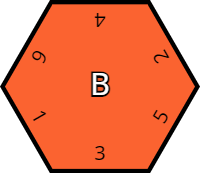
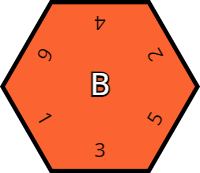
:bug: Fixed numbers alignment

diff --git a/assets/tables/hexagon-puzzle/index.html b/assets/tables/hexagon-puzzle/index.html
@@ -38,7 +38,7 @@ function process() {
         BORDER_COLOR = "#000",
         HEXAGON_ANGLE = Math.PI * 2 / 6,
         HEXAGON_SIZE = 100,
-        HEXAGON_BORDER = 9,
+        HEXAGON_RADIUS = 75,
         HEXRATIO_DIAGONAL_WIDTH = Math.cos(HEXAGON_ANGLE),
         HEXRATIO_DIAGONAL_HEIGHT = Math.sin(HEXAGON_ANGLE),
         HEXAGON_DIAGONALWIDTH = HEXAGON_SIZE * HEXRATIO_DIAGONAL_WIDTH,
@@ -181,58 +181,20 @@ function process() {
         hctx.textBaseline = "bottom";
         hctx.textAlign = "center";
 
-        hctx.save();
-        hctx.translate(
-            HEXAGON_DIAGONALWIDTH+(HEXAGON_SIZE/2),
-            HEXAGON_BORDER
-        );
-        hctx.rotate(Math.PI);
-        hctx.fillText(data.sides[0],0,0);
-        hctx.restore();
+        data.sides.forEach((side,id)=>{
+            let
+                angle = HEXAGON_ANGLE*id-(HEXAGON_ANGLE*1.5);
+            hctx.save();
+            hctx.translate(
+                HEXAGON_WIDTH/2+Math.cos(angle)*HEXAGON_RADIUS,
+                HEXAGON_HEIGHT/2+Math.sin(angle)*HEXAGON_RADIUS
+            );
+            hctx.rotate(angle-Math.PI/2);
+            hctx.fillText(side,0,0);
+            hctx.restore();
 
-        hctx.save();
-        hctx.translate(
-            HEXAGON_RIGHTCORNER+(HEXAGON_DIAGONALWIDTH/2)-HEXAGON_BORDER*HEXRATIO_DIAGONAL_WIDTH,
-            HEXAGON_DIAGONALHEIGHT*0.5+HEXAGON_BORDER*HEXRATIO_DIAGONAL_HEIGHT
-        );
-        hctx.rotate(Math.PI+HEXAGON_ANGLE);
-        hctx.fillText(data.sides[1],0,0);
-        hctx.restore();
+        })
 
-        hctx.save();
-        hctx.translate(
-            HEXAGON_RIGHTCORNER+(HEXAGON_DIAGONALWIDTH/2)-HEXAGON_BORDER*HEXRATIO_DIAGONAL_WIDTH,
-            HEXAGON_DIAGONALHEIGHT*1.5-HEXAGON_BORDER*HEXRATIO_DIAGONAL_HEIGHT
-        );
-        hctx.rotate(-HEXAGON_ANGLE);
-        hctx.fillText(data.sides[2],0,0);
-        hctx.restore();
-
-        hctx.save();
-        hctx.translate(
-            HEXAGON_DIAGONALWIDTH+(HEXAGON_SIZE/2),
-            HEXAGON_HEIGHT-HEXAGON_BORDER
-        );
-        hctx.fillText(data.sides[3],0,0);
-        hctx.restore();
-
-        hctx.save();
-        hctx.translate(
-            (HEXAGON_DIAGONALWIDTH/2)+HEXAGON_BORDER*HEXRATIO_DIAGONAL_WIDTH,
-            HEXAGON_DIAGONALHEIGHT*1.5-HEXAGON_BORDER*HEXRATIO_DIAGONAL_HEIGHT
-        );
-        hctx.rotate(HEXAGON_ANGLE);
-        hctx.fillText(data.sides[4],0,0);
-        hctx.restore();
-
-        hctx.save();
-        hctx.translate(
-            (HEXAGON_DIAGONALWIDTH/2)+HEXAGON_BORDER*HEXRATIO_DIAGONAL_WIDTH,
-            HEXAGON_DIAGONALHEIGHT*0.5+HEXAGON_BORDER*HEXRATIO_DIAGONAL_HEIGHT
-        );
-        hctx.rotate(Math.PI-HEXAGON_ANGLE);
-        hctx.fillText(data.sides[5],0,0);
-        hctx.restore();
 
         hctx.textBaseline = "middle";
         hctx.textAlign = "center";
@@ -286,21 +248,51 @@ function process() {
                 contentRotations:[
                     {
                         label:{ EN:"0&deg; ("+data.sides[0]+")"},
+                        icon: {
+                            isResource: true,
+                            type: "url",
+                            url: "/images/icon-hexagon-side.svg"
+                        },
                         angle:0
                     },{
                         label:{ EN:"60&deg; ("+data.sides[5]+")"},
+                        icon: {
+                            isResource: true,
+                            type: "url",
+                            url: "/images/icon-hexagon-side.svg"
+                        },
                         angle:HEXAGON_ANGLE
                     },{
                         label:{ EN:"120&deg; ("+data.sides[4]+")"},
+                        icon: {
+                            isResource: true,
+                            type: "url",
+                            url: "/images/icon-hexagon-side.svg"
+                        },
                         angle:HEXAGON_ANGLE*2
                     },{
                         label:{ EN:"180&deg; ("+data.sides[3]+")"},
+                        icon: {
+                            isResource: true,
+                            type: "url",
+                            url: "/images/icon-hexagon-side.svg"
+                        },
                         angle:HEXAGON_ANGLE*3
                     },{
                         label:{ EN:"240&deg; ("+data.sides[2]+")"},
+                        icon: {
+                            isResource: true,
+                            type: "url",
+                            url: "/images/icon-hexagon-side.svg"
+                        },
                         angle:HEXAGON_ANGLE*4
                     },{
                         label:{ EN:"300&deg; ("+data.sides[1]+")"},
+                        icon: {
+                            isResource: true,
+                            type: "url",
+                            url: "/images/icon-hexagon-side.svg"
+                        },
                         angle:HEXAGON_ANGLE*5
                     }
                 ],
